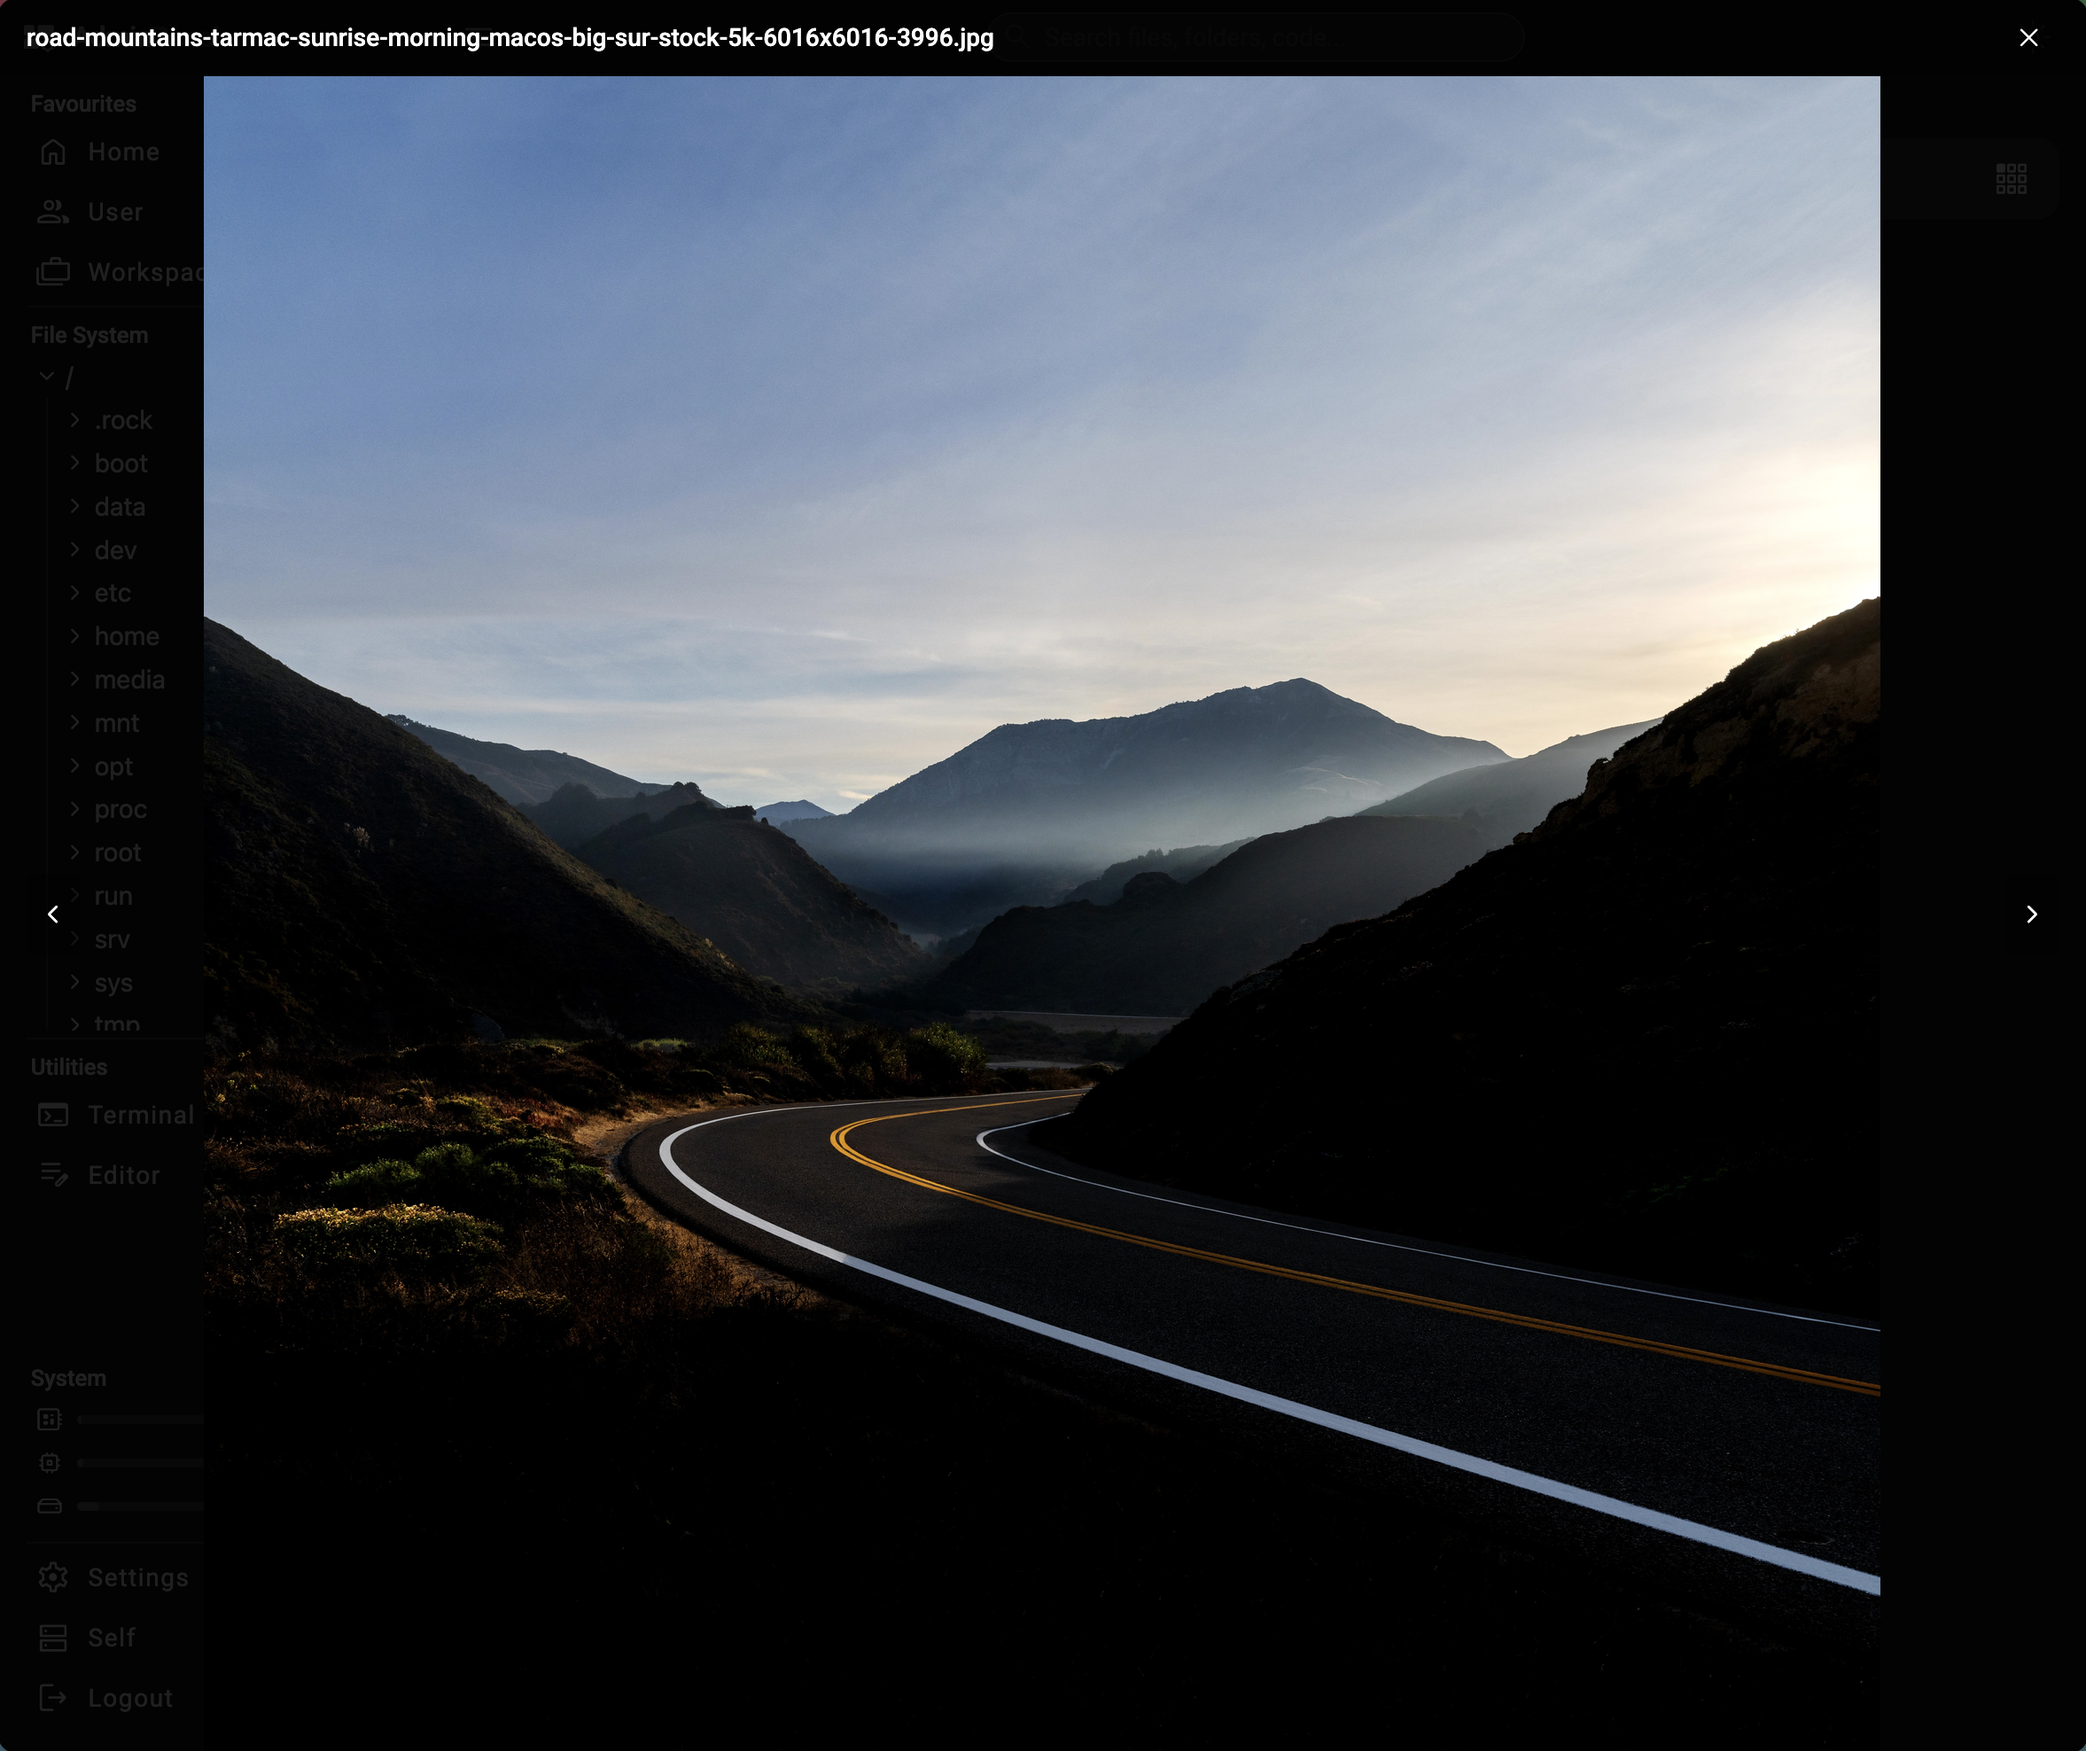
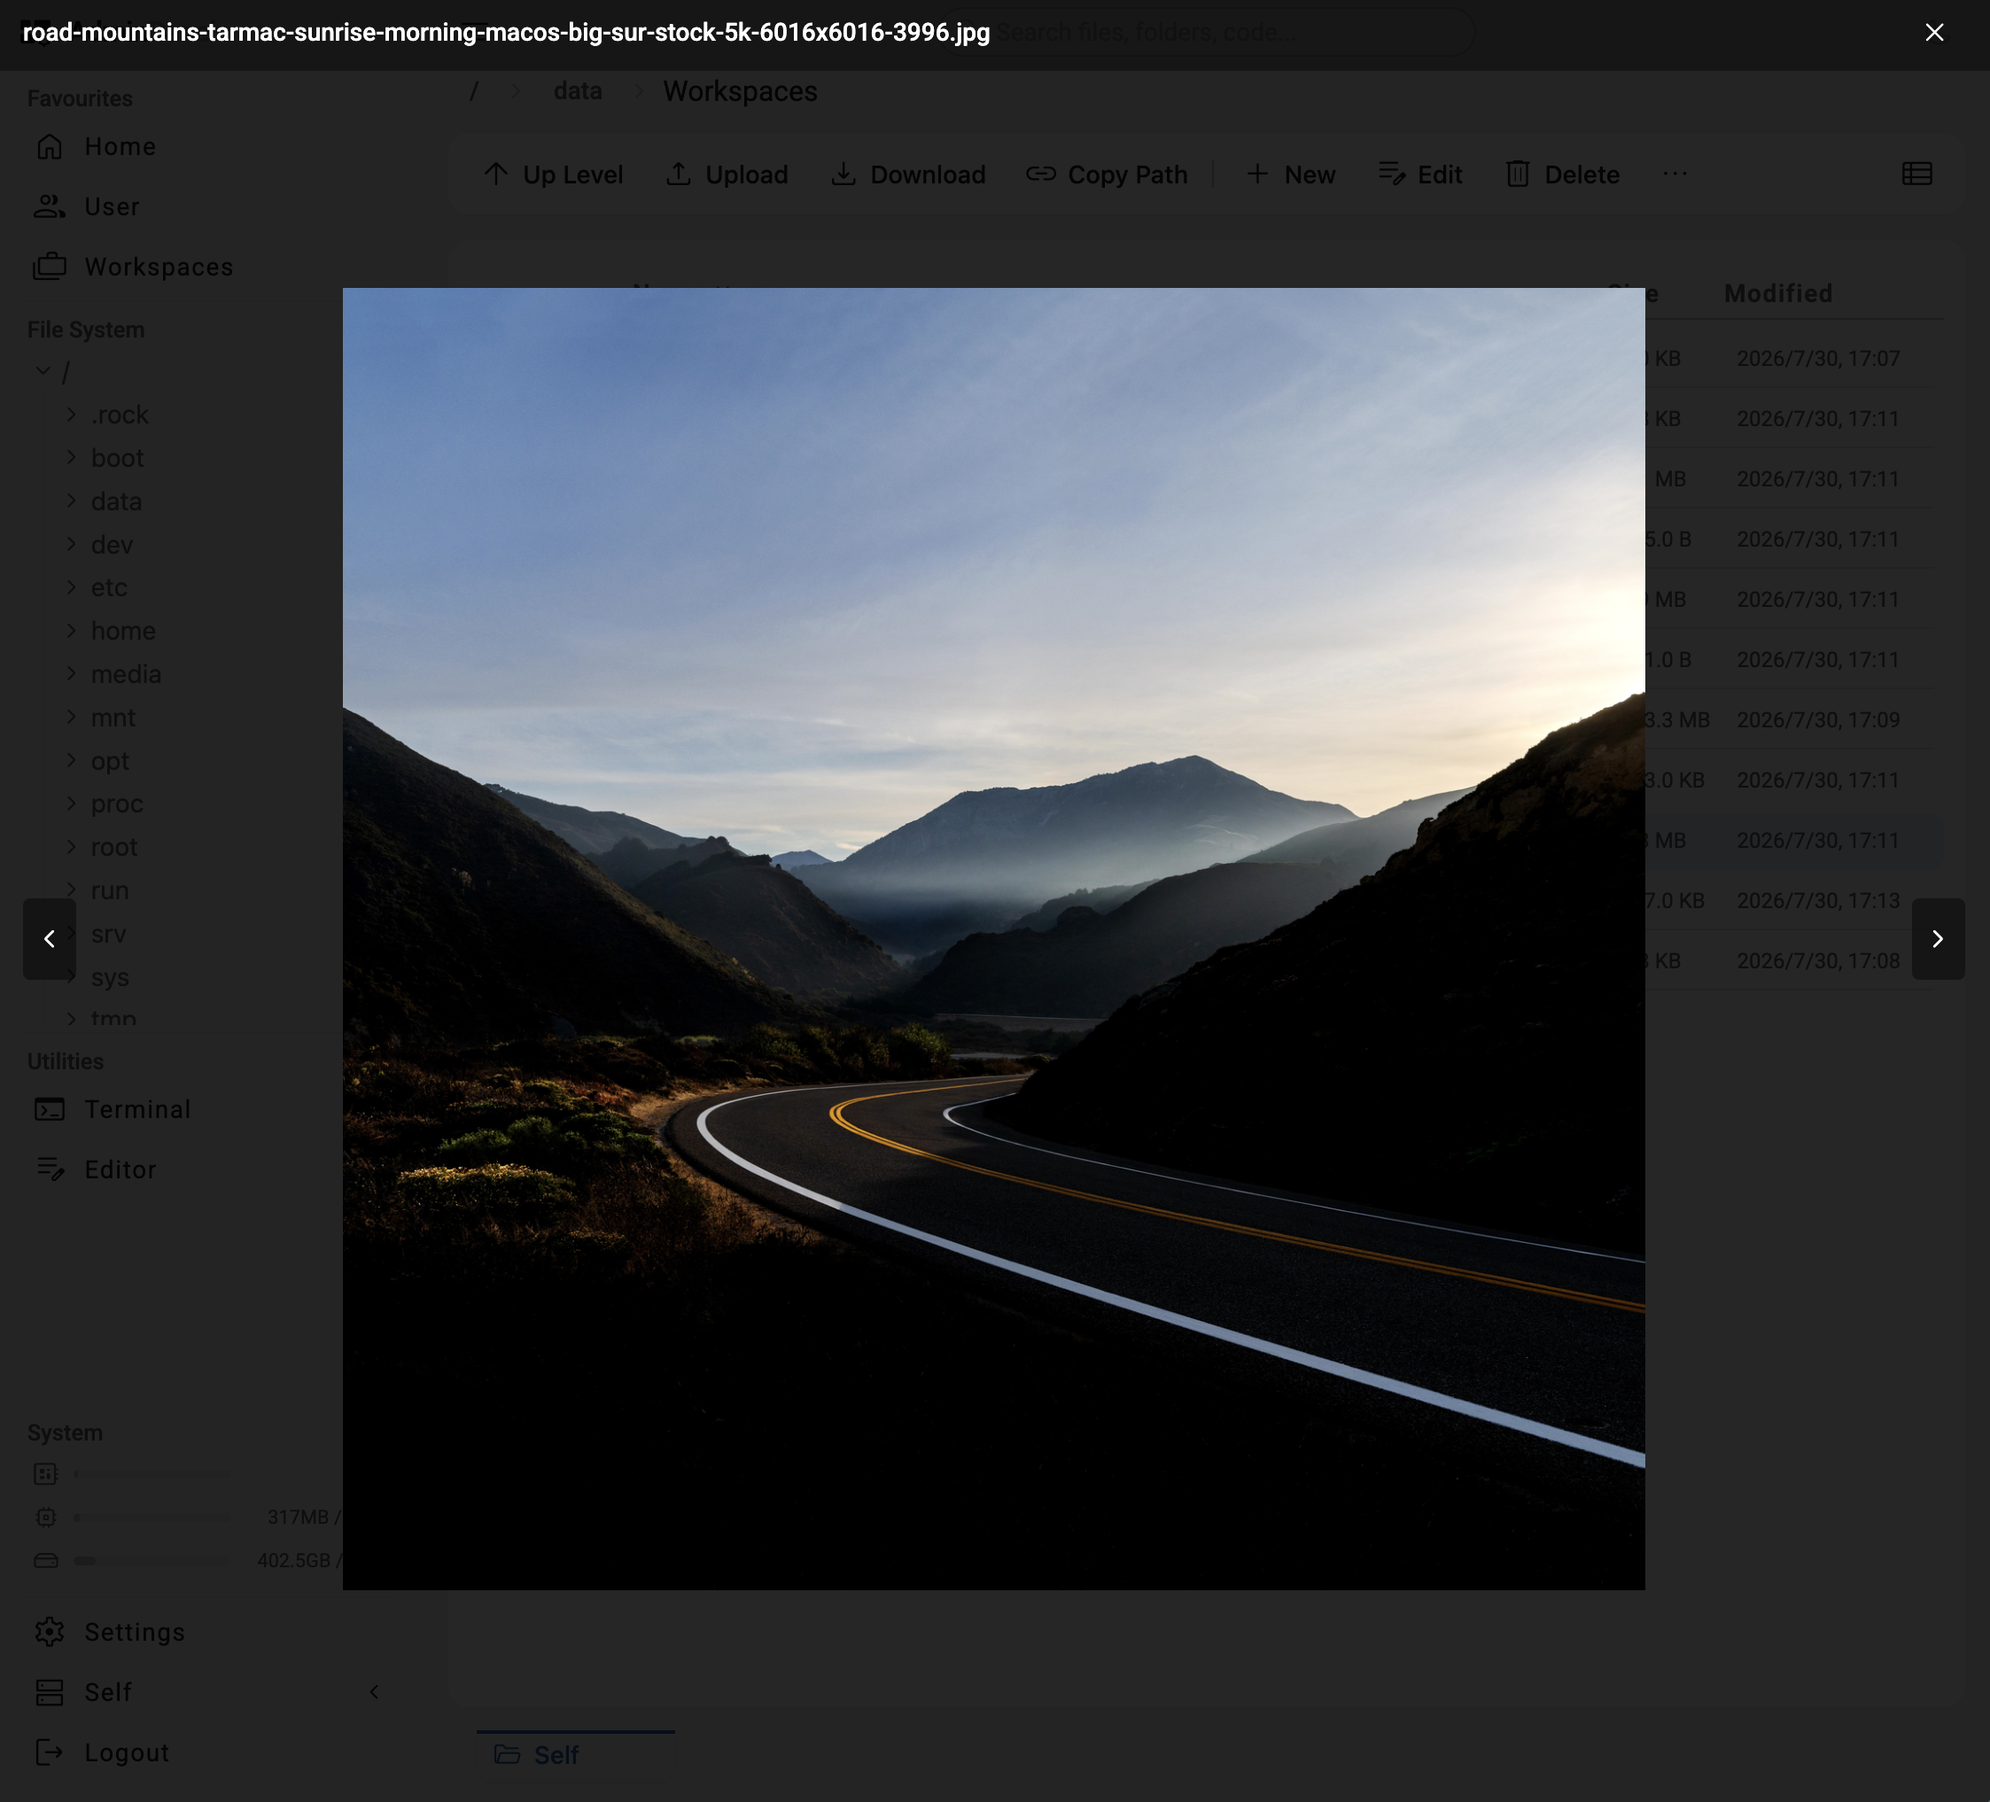
docs: expand README gallery with overlay, mobile, and terminal screenshots

diff --git a/README.md b/README.md
@@ -68,9 +68,29 @@ The closest alternative in the multi-machine space is [file-explorer](https://gi
 
 ## Gallery
 
-Dark mode is supported out of the box:
+Dark theme:
 
 <img src="docs-and-specs/assets/screenshots/ui-dark-grid-medium.png" width="500" alt="SidecarX — Dark Mode" />
+
+Markdown preview overlay:
+
+<img src="docs-and-specs/assets/screenshots/overlay-md-viewer.png" width="500" alt="Markdown Preview Overlay" />
+
+Media preview overlay:
+
+<img src="docs-and-specs/assets/screenshots/overlay-media-viewer.png" width="500" alt="Media Preview Overlay" />
+
+Mobile responsive:
+
+<img src="docs-and-specs/assets/screenshots/ui-mobile.png" width="500" alt="SidecarX — Mobile File List" />
+
+Mobile responsive (sidebar):
+
+<img src="docs-and-specs/assets/screenshots/ui-mobile-sidebar.png" width="500" alt="SidecarX — Mobile Sidebar" />
+
+Terminal running Hermes Agent:
+
+<img src="docs-and-specs/assets/screenshots/terminal-agent.png" width="500" alt="Terminal — Hermes Agent" />
 
 ---
 
